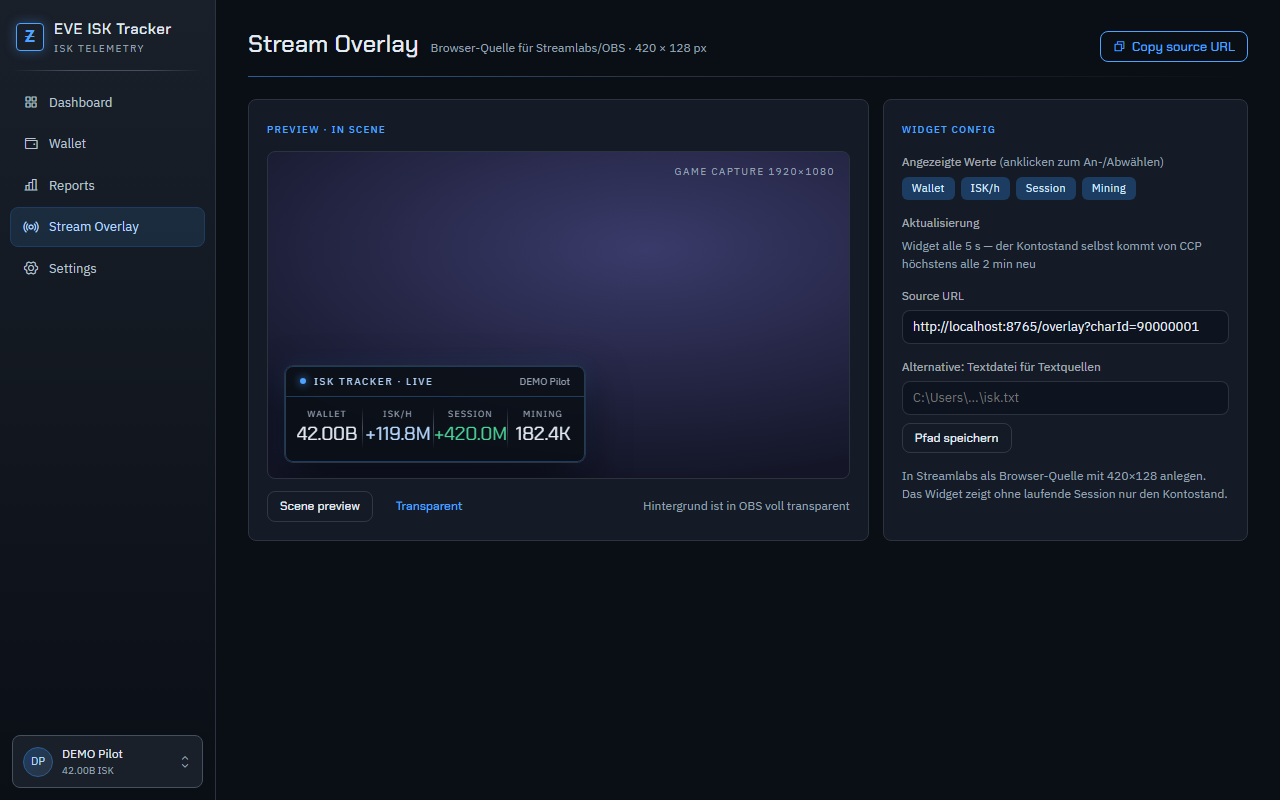
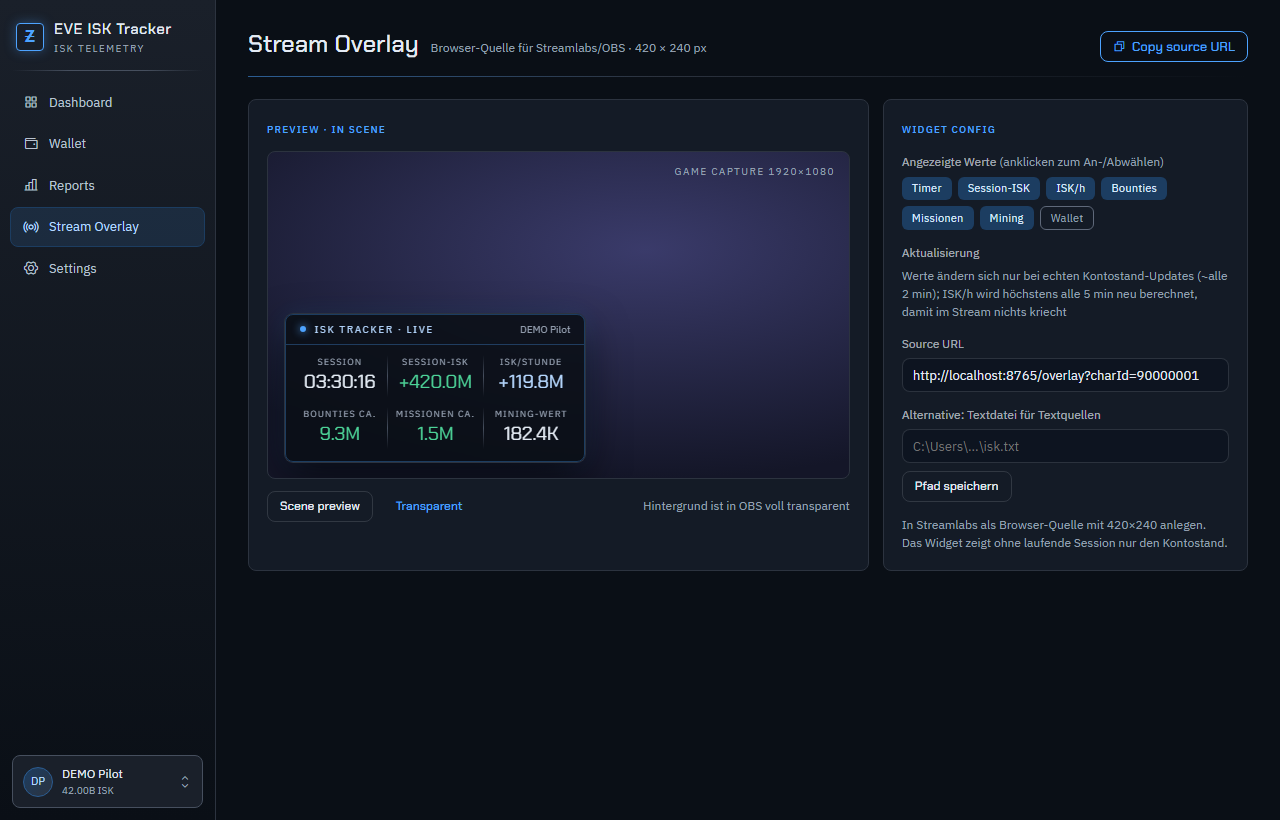
Widget als Session-HUD: Timer, Bounties, Missionen; bis zu 7 Kacheln
Nach dem Vorbild klassischer Session-HUDs: neue Kacheln Session-Timer
(tickt lokal), Bounties ca. und Missionen ca. (aus dem Journal, daher
"ca."), dazu Mining-Wert und Wallet. Bis 4 Kacheln eine Reihe, ab 5 zwei
ausgewogene Reihen; Widget-Flaeche jetzt 420x240 (Browser-Quelle anpassen).
Alle Kacheln einzeln an-/abwaehlbar, Vorschau in der App identisch.

diff --git a/EveIskTracker.Desktop/wwwroot/overlay.html b/EveIskTracker.Desktop/wwwroot/overlay.html
@@ -6,18 +6,20 @@
 <link rel="preconnect" href="https://fonts.googleapis.com">
 <link rel="stylesheet" href="https://fonts.googleapis.com/css2?family=Chakra+Petch:wght@400;500;600&family=IBM+Plex+Sans:wght@400;500&display=swap">
 <style>
-  /* PULSAR-Widget aus dem Design-Handoff: 420×128, Browser-Quelle in OBS/Streamlabs */
+  /* PULSAR-Widget aus dem Design-Handoff: 420×240, Browser-Quelle in OBS/Streamlabs */
   :root{
     --bg:#0a0f16; --text:#e4ebf4; --accent:#4da3ff;
     --accent-200:#b6d8ff; --accent-800:#1c3d61;
     --n400:#99a4b5; --n700:#464f5e;
   }
-  html,body{margin:0;padding:0;background:transparent;overflow:hidden;width:420px;height:128px}
-  /* body positionieren, damit sich die Kachel an den 420×128 ausrichtet und nicht
+  /* 420×240: Platz für bis zu zwei Kachelreihen. Bei nur einer Reihe bleibt der
+     untere Bereich schlicht transparent. */
+  html,body{margin:0;padding:0;background:transparent;overflow:hidden;width:420px;height:240px}
+  /* body positionieren, damit sich die Kachel an den 420×240 ausrichtet und nicht
      am Fenster — sonst verzerrt sie, sobald die Quelle nicht exakt passt */
   body{position:relative}
   #w{
-    position:absolute;inset:4px;
+    position:absolute;top:4px;left:4px;right:4px;
     border-radius:8px;border:1px solid var(--accent-800);
     background:color-mix(in srgb,var(--bg) 88%,transparent);
     box-shadow:0 0 0 1px rgba(44,51,63,.6),0 16px 40px rgba(0,0,0,.65),0 0 24px color-mix(in srgb,var(--accent) 15%,transparent);
@@ -50,7 +52,7 @@
     <span class="title">ISK TRACKER · LIVE</span>
     <span class="char" id="char">–</span>
   </div>
-  <div class="row" id="row"></div>
+  <div id="rows"></div>
 </div>
 
 <script>
@@ -66,12 +68,22 @@ function fmt(v){
 }
 const signed = v => (v < 0 ? '−' : '+') + fmt(v);
 
-// Welche Kacheln es gibt; die Auswahl kommt vom Server (in der App umschaltbar)
+// Welche Kacheln es gibt; die Auswahl kommt vom Server (in der App umschaltbar).
+// "CA." bei Bounties/Missionen: die Werte stammen aus dem Journal, das CCP bis zu
+// eine Stunde cached — sie laufen der großen Session-Zahl also hinterher.
+const clock = h => {
+  const s = Math.max(0, Math.round(h * 3600));
+  const p = n => String(n).padStart(2, '0');
+  return `${p(Math.floor(s / 3600))}:${p(Math.floor(s / 60) % 60)}:${p(s % 60)}`;
+};
 const METRICS = {
-  wallet:  { label: 'WALLET',  render: d => ({ text: fmt(d.balance), cls: '' }) },
-  rate:    { label: 'ISK/H',   render: d => d.active ? { text: signed(d.iskPerHour), cls: 'accent' } : { text: '–', cls: '' } },
-  session: { label: 'SESSION', render: d => d.active ? { text: signed(d.delta), cls: d.delta > 0 ? 'pos' : d.delta < 0 ? 'neg' : '' } : { text: '–', cls: '' } },
-  mining:  { label: 'MINING',  render: d => d.active && d.mining > 0 ? { text: fmt(d.mining), cls: '' } : { text: '–', cls: '' } },
+  time:     { label: 'SESSION',       render: d => d.active ? { text: clock(d.hours), cls: '', timer: true } : { text: '–', cls: '' } },
+  session:  { label: 'SESSION-ISK',   render: d => d.active ? { text: signed(d.delta), cls: d.delta > 0 ? 'pos' : d.delta < 0 ? 'neg' : '' } : { text: '–', cls: '' } },
+  rate:     { label: 'ISK/STUNDE',    render: d => d.active ? { text: signed(d.iskPerHour), cls: 'accent' } : { text: '–', cls: '' } },
+  bounties: { label: 'BOUNTIES CA.',  render: d => d.active && d.bounties > 0 ? { text: fmt(d.bounties), cls: 'pos' } : { text: '–', cls: '' } },
+  missions: { label: 'MISSIONEN CA.', render: d => d.active && d.missions > 0 ? { text: fmt(d.missions), cls: 'pos' } : { text: '–', cls: '' } },
+  mining:   { label: 'MINING-WERT',   render: d => d.active && d.mining > 0 ? { text: fmt(d.mining), cls: '' } : { text: '–', cls: '' } },
+  wallet:   { label: 'WALLET',        render: d => ({ text: fmt(d.balance), cls: '' }) },
 };
 
 // Anzeige-Beruhigung für den Stream: Zahlen ändern sich nur, wenn CCP wirklich neue
@@ -80,7 +92,16 @@ const METRICS = {
 // alle 5 Minuten neu berechnet (und sofort bei Session-Start/-Stopp).
 // Haltezeit kommt vom Server mit (in den Settings einstellbar), Standard 5 min
 let rateHoldMs = 5 * 60 * 1000;
-const last = { active: null, balance: null, delta: null, mining: null, metrics: '', rate: { text: '–', cls: '' }, rateAt: 0 };
+let sessionStartMs = null;   // für den lokal tickenden Timer
+const last = { active: null, balance: null, delta: null, mining: null, bounties: null, missions: null,
+               metrics: '', rate: { text: '–', cls: '' }, rateAt: 0 };
+
+// Bis zu 4 Kacheln pro Reihe, ab 5 ausgewogen auf zwei Reihen verteilt
+function chunkRows(list){
+  if (list.length <= 4) return [list];
+  const half = Math.ceil(list.length / 2);
+  return [list.slice(0, half), list.slice(half)];
+}
 
 async function tick(){
   const w = document.getElementById('w');
@@ -96,9 +117,11 @@ async function tick(){
     const now = Date.now();
 
     if (d.rateHold) rateHoldMs = d.rateHold * 1000;
+    sessionStartMs = d.active ? now - d.hours * 3600000 : null;
 
     const activeChanged = d.active !== last.active;
-    const dataChanged = d.balance !== last.balance || d.delta !== last.delta || d.mining !== last.mining;
+    const dataChanged = d.balance !== last.balance || d.delta !== last.delta || d.mining !== last.mining
+                     || d.bounties !== last.bounties || d.missions !== last.missions;
     const layoutChanged = metricsKey !== last.metrics;
     const rateDue = activeChanged || (now - last.rateAt >= rateHoldMs);
 
@@ -106,12 +129,15 @@ async function tick(){
 
     if (activeChanged || dataChanged || layoutChanged || rateDue) {
       document.getElementById('char').textContent = d.name || '';
-      document.getElementById('row').innerHTML = list.map(k => {
-        const v = k === 'rate' ? last.rate : METRICS[k].render(d);
-        return `<div class="cell"><div class="label">${METRICS[k].label}</div><div class="value ${v.cls}">${v.text}</div></div>`;
-      }).join('<div class="sep"></div>');
-      last.active = d.active; last.balance = d.balance;
-      last.delta = d.delta; last.mining = d.mining; last.metrics = metricsKey;
+      document.getElementById('rows').innerHTML = chunkRows(list).map(row =>
+        '<div class="row">' + row.map(k => {
+          const v = k === 'rate' ? last.rate : METRICS[k].render(d);
+          const id = v.timer ? ' id="tmr"' : '';
+          return `<div class="cell"><div class="label">${METRICS[k].label}</div><div class="value ${v.cls}"${id}>${v.text}</div></div>`;
+        }).join('<div class="sep"></div>') + '</div>').join('');
+      last.active = d.active; last.balance = d.balance; last.delta = d.delta;
+      last.mining = d.mining; last.bounties = d.bounties; last.missions = d.missions;
+      last.metrics = metricsKey;
     }
 
     w.classList.add('on');
@@ -120,6 +146,13 @@ async function tick(){
     w.classList.remove('on');
   }
 }
+
+// Der Timer tickt lokal jede Sekunde — das einzige bewusst "lebendige" Element
+setInterval(() => {
+  const el = document.getElementById('tmr');
+  if (el && sessionStartMs !== null)
+    el.textContent = clock((Date.now() - sessionStartMs) / 3600000);
+}, 1000);
 
 tick();
 // 5s: fragt nur die lokale App, kein Verkehr zu CCP — neue Werte erscheinen

diff --git a/EveIskTracker.Desktop/wwwroot/app.js b/EveIskTracker.Desktop/wwwroot/app.js
@@ -454,13 +454,16 @@ async function loadSessionHistory() {
 // ---------- Overlay-Screen ----------
 
 const METRIC_DEFS = [
+  { key: 'time', name: 'Timer', label: 'SESSION' },
+  { key: 'session', name: 'Session-ISK', label: 'SESSION-ISK' },
+  { key: 'rate', name: 'ISK/h', label: 'ISK/STUNDE' },
+  { key: 'bounties', name: 'Bounties', label: 'BOUNTIES CA.' },
+  { key: 'missions', name: 'Missionen', label: 'MISSIONEN CA.' },
+  { key: 'mining', name: 'Mining', label: 'MINING-WERT' },
   { key: 'wallet', name: 'Wallet', label: 'WALLET' },
-  { key: 'rate', name: 'ISK/h', label: 'ISK/H' },
-  { key: 'session', name: 'Session', label: 'SESSION' },
-  { key: 'mining', name: 'Mining', label: 'MINING' },
 ];
 const activeMetrics = () =>
-  ((S.status && S.status.overlayMetrics) || 'wallet,rate,session,mining').split(',').filter(Boolean);
+  ((S.status && S.status.overlayMetrics) || 'time,session,rate,mining').split(',').filter(Boolean);
 
 async function loadOverlayScreen() {
   if (!S.charId) return;
@@ -471,13 +474,19 @@ async function loadOverlayScreen() {
   const cell = k => {
     let text = '–', cls = '';
     if (k === 'wallet') text = fmtIsk(d.balance);
+    if (k === 'time' && d.active) text = sessionClock(d.hours);
     if (k === 'rate' && d.active) { text = signed(d.iskPerHour); cls = 'accent'; }
     if (k === 'session' && d.active) { text = signed(d.delta); cls = d.delta > 0 ? 'pos' : d.delta < 0 ? 'neg' : ''; }
+    if (k === 'bounties' && d.active && d.bounties > 0) { text = fmtIsk(d.bounties); cls = 'pos'; }
+    if (k === 'missions' && d.active && d.missions > 0) { text = fmtIsk(d.missions); cls = 'pos'; }
     if (k === 'mining' && d.active && d.mining > 0) text = fmtIsk(d.mining);
     const def = METRIC_DEFS.find(m => m.key === k);
     return `<div class="pw-cell"><div class="pw-label">${def.label}</div><div class="pw-value ${cls}">${text}</div></div>`;
   };
-  $('pvRow').innerHTML = act.map(cell).join('<div class="pw-sep"></div>');
+  // wie im Widget: bis 4 Kacheln eine Reihe, ab 5 zwei ausgewogene Reihen
+  const rows = act.length <= 4 ? [act] : [act.slice(0, Math.ceil(act.length / 2)), act.slice(Math.ceil(act.length / 2))];
+  $('pvRow').innerHTML = rows.map(r =>
+    '<div class="pw-row">' + r.map(cell).join('<div class="pw-sep"></div>') + '</div>').join('');
 
   $('metricToggles').innerHTML = METRIC_DEFS.map(m =>
     `<span class="tag ${act.includes(m.key) ? 'tag-accent' : 'tag-off'} click" data-metric="${m.key}">${m.name}</span>`).join('');

diff --git a/EveIskTracker.Desktop/wwwroot/index.html b/EveIskTracker.Desktop/wwwroot/index.html
@@ -175,7 +175,7 @@
     <div class="screen hidden" id="screen-overlay">
       <div class="page-head">
         <h1>Stream Overlay</h1>
-        <span class="head-note">Browser-Quelle für Streamlabs/OBS · 420 × 128 px</span>
+        <span class="head-note">Browser-Quelle für Streamlabs/OBS · 420 × 240 px</span>
         <button class="btn btn-primary" style="margin-left:auto" id="btnCopyUrl"><i class="ph ph-copy"></i> Copy source URL</button>
       </div>
       <div class="head-rule"></div>
@@ -191,7 +191,7 @@
                 <span class="pw-title">ISK TRACKER · LIVE</span>
                 <span class="pw-char" id="pvChar">–</span>
               </div>
-              <div class="pw-row" id="pvRow"></div>
+              <div id="pvRow"></div>
             </div>
           </div>
           <div class="row" style="margin-top:12px">
@@ -218,7 +218,7 @@
               <input class="input" id="overlayTextPath" placeholder="C:\Users\...\isk.txt">
               <button class="btn btn-secondary" id="btnSaveTxt" style="margin-top:8px;font-size:12px">Pfad speichern</button>
             </div>
-            <div class="head-note" style="line-height:1.5">In Streamlabs als Browser-Quelle mit 420×128 anlegen. Das Widget zeigt ohne laufende Session nur den Kontostand.</div>
+            <div class="head-note" style="line-height:1.5">In Streamlabs als Browser-Quelle mit 420×240 anlegen. Das Widget zeigt ohne laufende Session nur den Kontostand.</div>
           </div>
         </div>
       </div>

diff --git a/EveIskTracker.Desktop/WebHost.cs b/EveIskTracker.Desktop/WebHost.cs
@@ -272,6 +272,19 @@ ORDER BY started_utc DESC LIMIT 50", ("$c", charId));
             var st = Sessions.Current(charId);
             var balance = Sessions.CurrentBalance(charId);
             var name = Db.Scalar("SELECT name FROM characters WHERE character_id=$c", ("$c", charId));
+
+            // Aufschlüsselung fürs HUD: Bounties und Missionen im Session-Fenster.
+            // Quelle ist das Journal — hinkt bis zu 1h nach, daher zeigt das Widget "ca."
+            double bounties = 0, missions = 0;
+            if (st.Active)
+            {
+                var started = Util.ParseIso(st.StartedUtc);
+                bounties = Analytics.SumRefTypes(charId, started, Util.UtcNow,
+                    "bounty_prizes", "bounty_prize", "bounty", "ess_escrow_transfer");
+                missions = Analytics.SumRefTypes(charId, started, Util.UtcNow,
+                    "agent_mission_reward", "agent_mission_time_bonus_reward", "mission_reward", "mission_completion");
+            }
+
             return Results.Ok(new
             {
                 active = st.Active,
@@ -280,6 +293,8 @@ ORDER BY started_utc DESC LIMIT 50", ("$c", charId));
                 delta = st.Delta,
                 iskPerHour = st.IskPerHour,
                 mining = st.MiningValue,
+                bounties,
+                missions,
                 hours = st.Hours,
                 // Auswahl der Kacheln und Haltezeit wandern mit — so greifen Änderungen
                 // im Widget binnen Sekunden, ohne die Browser-Quelle anzufassen

diff --git a/EveIskTracker.Desktop/Config.cs b/EveIskTracker.Desktop/Config.cs
@@ -31,12 +31,13 @@ public static class Config
         set => Db.SetKv("overlay_txt", value?.Trim());
     }
 
-    public static readonly string[] KnownMetrics = { "wallet", "rate", "session", "mining" };
+    /// <summary>Reihenfolge hier = Anzeige-Reihenfolge im Widget (nach dem Vorbild klassischer Session-HUDs).</summary>
+    public static readonly string[] KnownMetrics = { "time", "session", "rate", "bounties", "missions", "mining", "wallet" };
 
     /// <summary>Welche Werte das Stream-Widget zeigt — Komma-Liste, Reihenfolge fest.</summary>
     public static string OverlayMetrics
     {
-        get => Db.GetKv("overlay_metrics", "wallet,rate,session,mining");
+        get => Db.GetKv("overlay_metrics", "time,session,rate,mining");
         set
         {
             // nur bekannte Schlüssel, Reihenfolge normiert; leer fällt auf alle zurück

diff --git a/EveIskTracker.Tests/Seed.cs b/EveIskTracker.Tests/Seed.cs
@@ -86,6 +86,12 @@ public static class Seed
         J(4, "transaction_tax", -2_080_000);
         J(2, "brokers_fee", -930_000);
 
+        // Buchungen innerhalb der Demo-Session (letzte ~3,5h), damit die
+        // Bounty-/Missions-Kacheln des Widgets etwas zu zeigen haben
+        J(0.04, "bounty_prizes", 6_800_000);
+        J(0.07, "bounty_prizes", 2_500_000);
+        J(0.10, "agent_mission_reward", 1_500_000);
+
         // Markterlöse, damit der Einnahmen-Donut ein Trading-Segment hat
         for (var d = 0; d < 28; d += 2)
         {

diff --git a/ANLEITUNG.md b/ANLEITUNG.md
@@ -8,7 +8,7 @@ Activity, Mining, Einnahmen-Donut), **Wallet** (Journal, 30-Tage-Kurve, CSV-Expo
 (Widget-Vorschau und -Konfiguration), **Settings** (ESI-Verbindung, App-Registrierung).
 Charakterwechsel unten links in der Sidebar.
 
-**Das Stream-Widget ist 420 × 128 px** („ISK TRACKER · LIVE") und wird in Streamlabs/OBS
+**Das Stream-Widget ist 420 × 240 px** („ISK TRACKER · LIVE") und wird in Streamlabs/OBS
 als Browser-Quelle mit genau dieser Größe angelegt — frei positionierbar, Hintergrund
 transparent. Welche Werte es zeigt (Wallet, ISK/h, Session, Mining), wählst du auf der
 Stream-Overlay-Seite per Klick an und ab; Änderungen übernimmt das Widget binnen Sekunden
@@ -95,14 +95,17 @@ im Hintergrund aktuell.
 
 1. In der App: **Stream Overlay** → **Copy source URL** (oder Tray-Menü → Widget-URL kopieren)
 2. Streamlabs → Szene *Live* → **Quellen** → **+** → **Browserquelle**
-3. URL einfügen, **Breite 420, Höhe 128**, dann frei in der Szene positionieren
+3. URL einfügen, **Breite 420, Höhe 240**, dann frei in der Szene positionieren
    (im Design vorgesehen: unten links)
 4. Hintergrund ist transparent; die Vorschau auf der Stream-Overlay-Seite zeigt,
    wie es in der Szene wirkt
 
-Das Widget zeigt Wallet, ISK/h, Session-ISK und Mining. Ohne laufende Session nur den
-Kontostand. Alternativ gibt es auf der Stream-Overlay-Seite eine Textdatei-Ausgabe für
-klassische Textquellen.
+Wählbare Kacheln (Stream-Overlay-Seite, anklicken): **Session-Timer, Session-ISK, ISK/h,
+Bounties, Missionen, Mining-Wert, Wallet** — bis zu 4 in einer Reihe, ab 5 zwei Reihen.
+Bounties und Missionen tragen ein „ca.", weil sie aus dem Journal stammen (bis zu 1h
+Verzögerung durch CCPs Cache). Ohne laufende Session zeigt das Widget nur den Kontostand.
+Alternativ gibt es auf der Stream-Overlay-Seite eine Textdatei-Ausgabe für klassische
+Textquellen.
 
 Damit das Widget während des Streams funktioniert, muss die App laufen (Fenster darf
 zu sein — Tray genügt).

diff --git a/README.md b/README.md
@@ -24,9 +24,10 @@ Historie zurück, auch über das hinaus, was das Spiel selbst noch anzeigt.
   Industrie, Session-Historie
 - **Sessions** — Start/Stopp per Klick, ISK-Differenz und ISK/h live, Zuordnung von
   Mining-Erträgen zum Session-Zeitfenster
-- **Stream-Widget** — 420 × 128 px Browser-Quelle („ISK TRACKER · LIVE") mit Wallet ·
-  ISK/h · Session · Mining, per Klick an-/abwählbar, transparenter Hintergrund,
-  Vorschau in der App; Update-Countdown im Dashboard zeigt, von wann der Stand ist
+- **Stream-Widget** — 420 × 240 px Browser-Quelle („ISK TRACKER · LIVE") im Stil klassischer
+  Session-HUDs: Timer · Session-ISK · ISK/h · Bounties · Missionen · Mining · Wallet, jede
+  Kachel per Klick an-/abwählbar (bis zu zwei Reihen), transparenter Hintergrund, Vorschau
+  in der App; Update-Countdown im Dashboard zeigt, von wann der Stand ist
 
 | Wallet | Stream-Widget |
 |---|---|
@@ -63,7 +64,7 @@ eigenen Browser auf `localhost` zurück. Ausführliche Schritte: [ANLEITUNG.md](
 
 ### Widget in OBS/Streamlabs
 
-**Stream Overlay** → **Copy source URL** → in OBS als Browser-Quelle mit **420 × 128**
+**Stream Overlay** → **Copy source URL** → in OBS als Browser-Quelle mit **420 × 240**
 anlegen. Ohne laufende Session zeigt das Widget nur den Kontostand. Die App muss dabei
 laufen (Fenster darf zu sein — sie lebt dann im Tray weiter).
 
